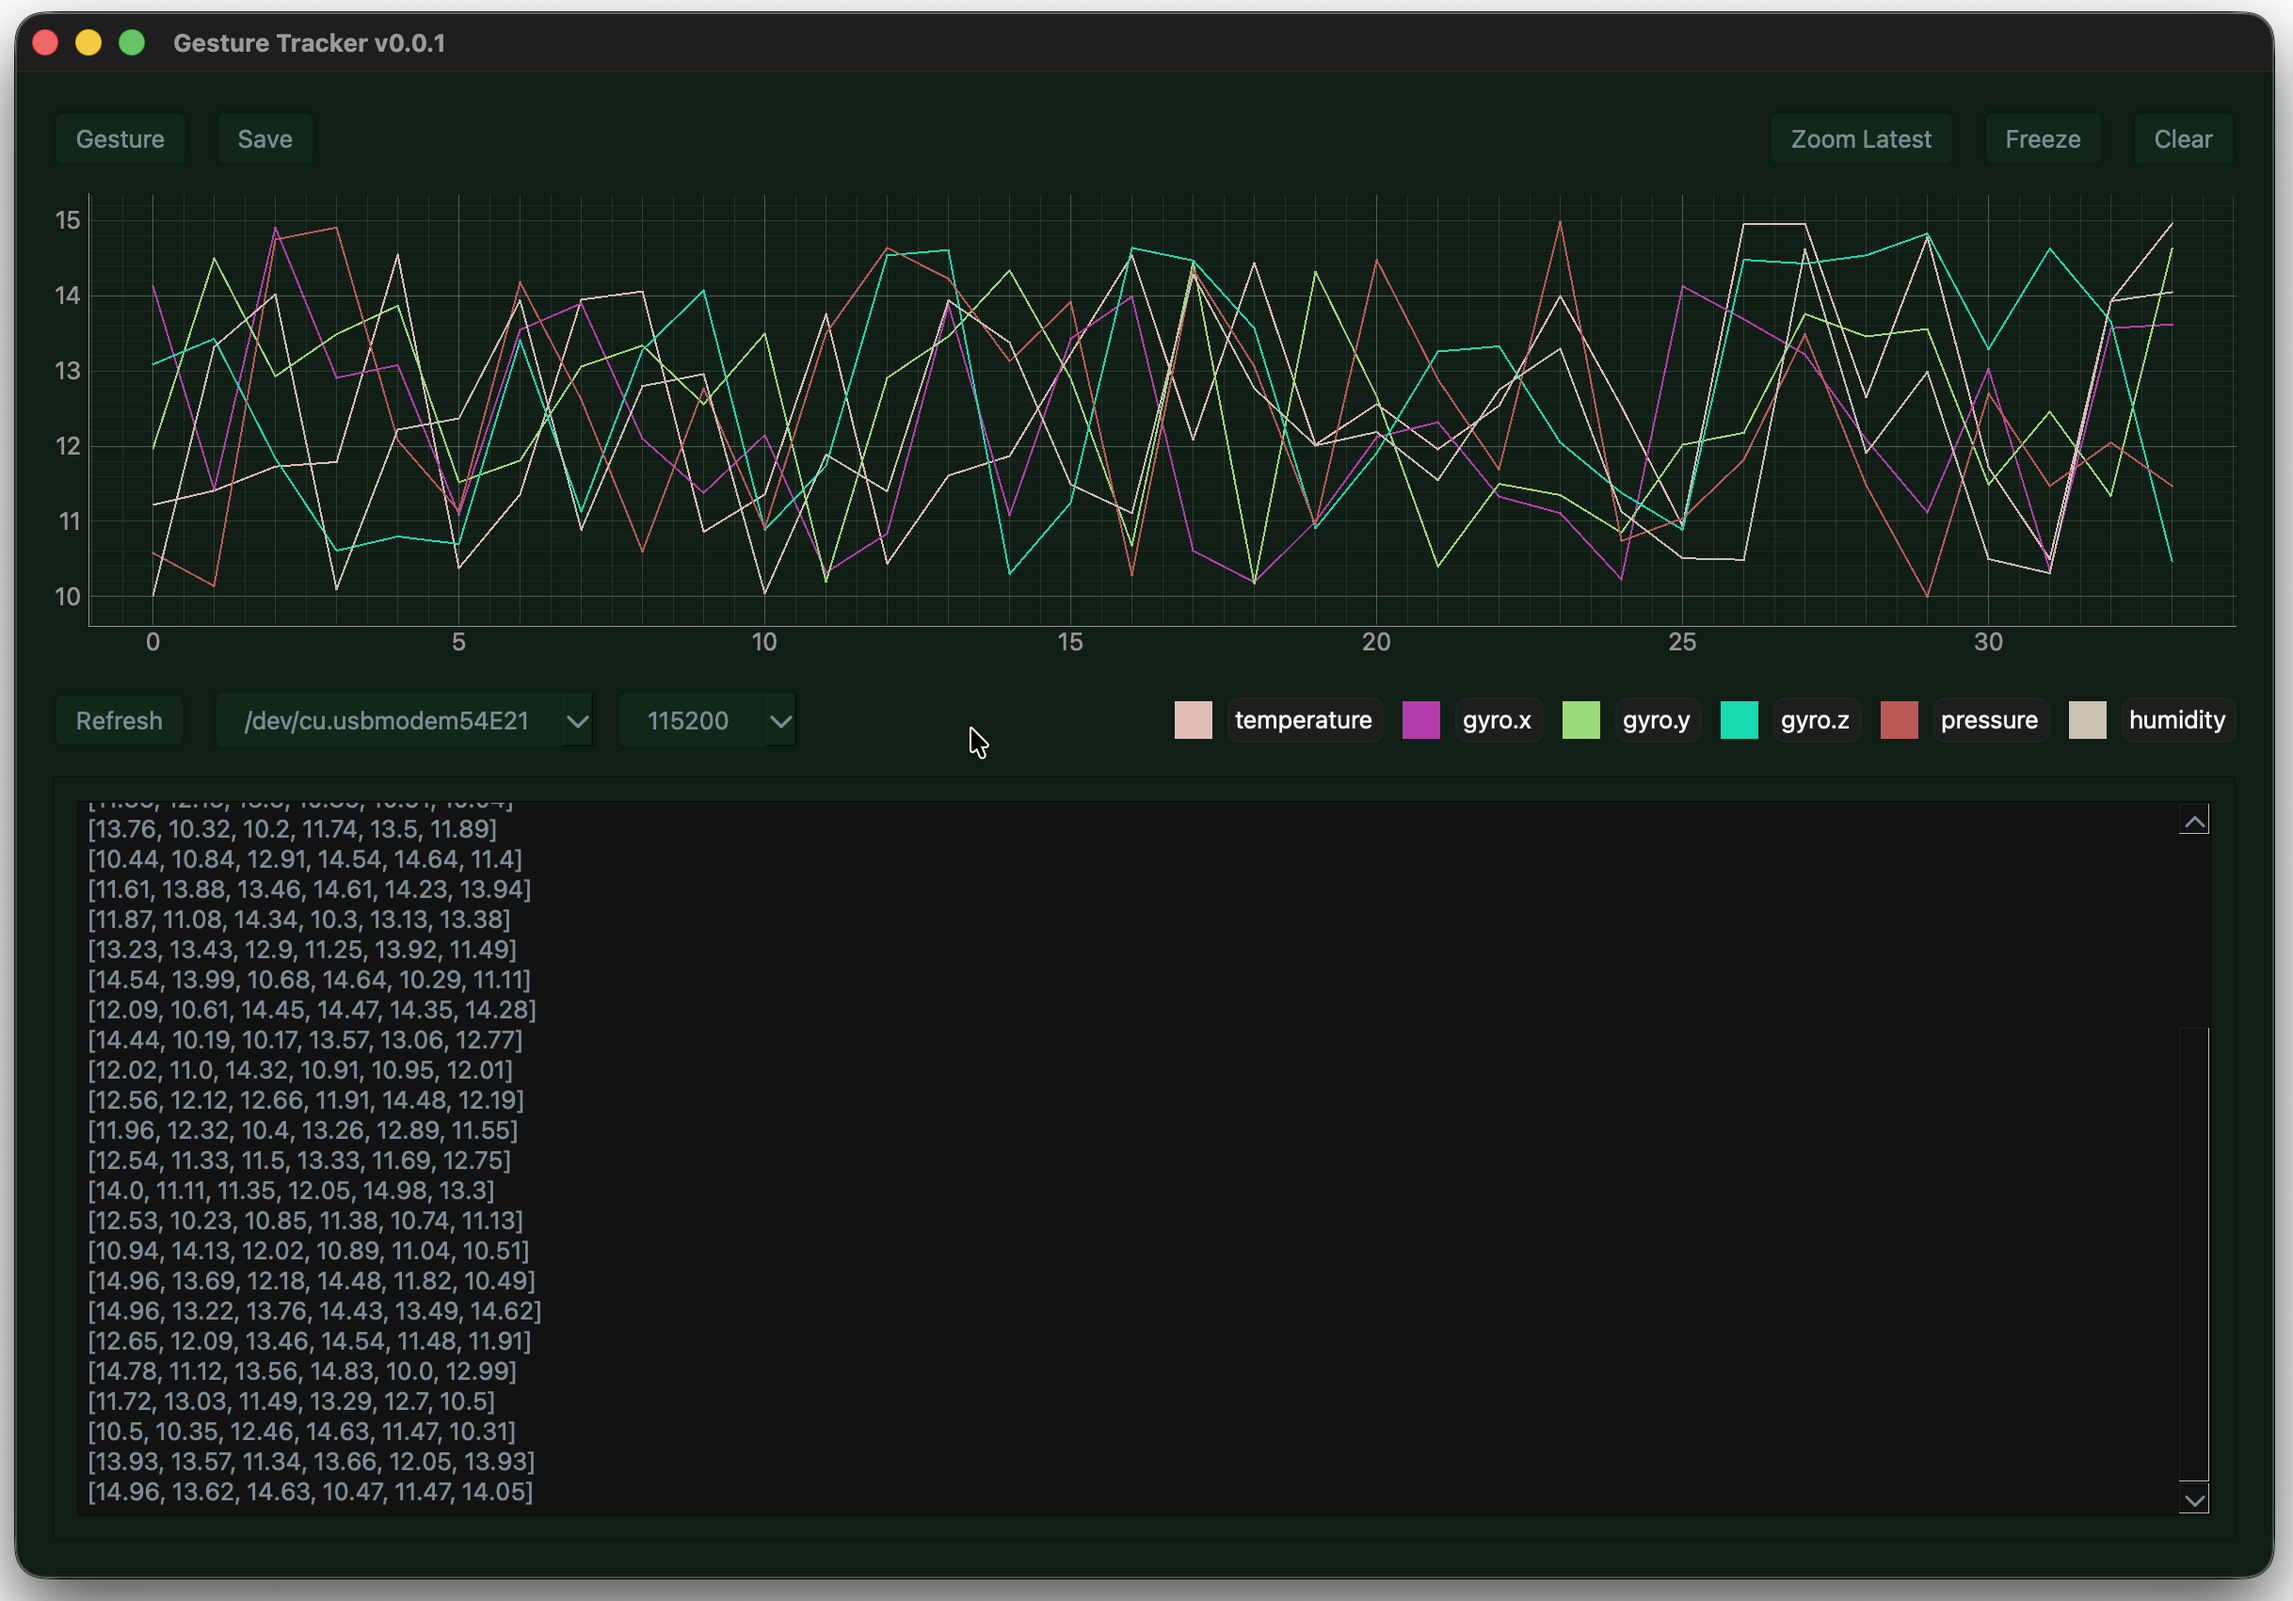
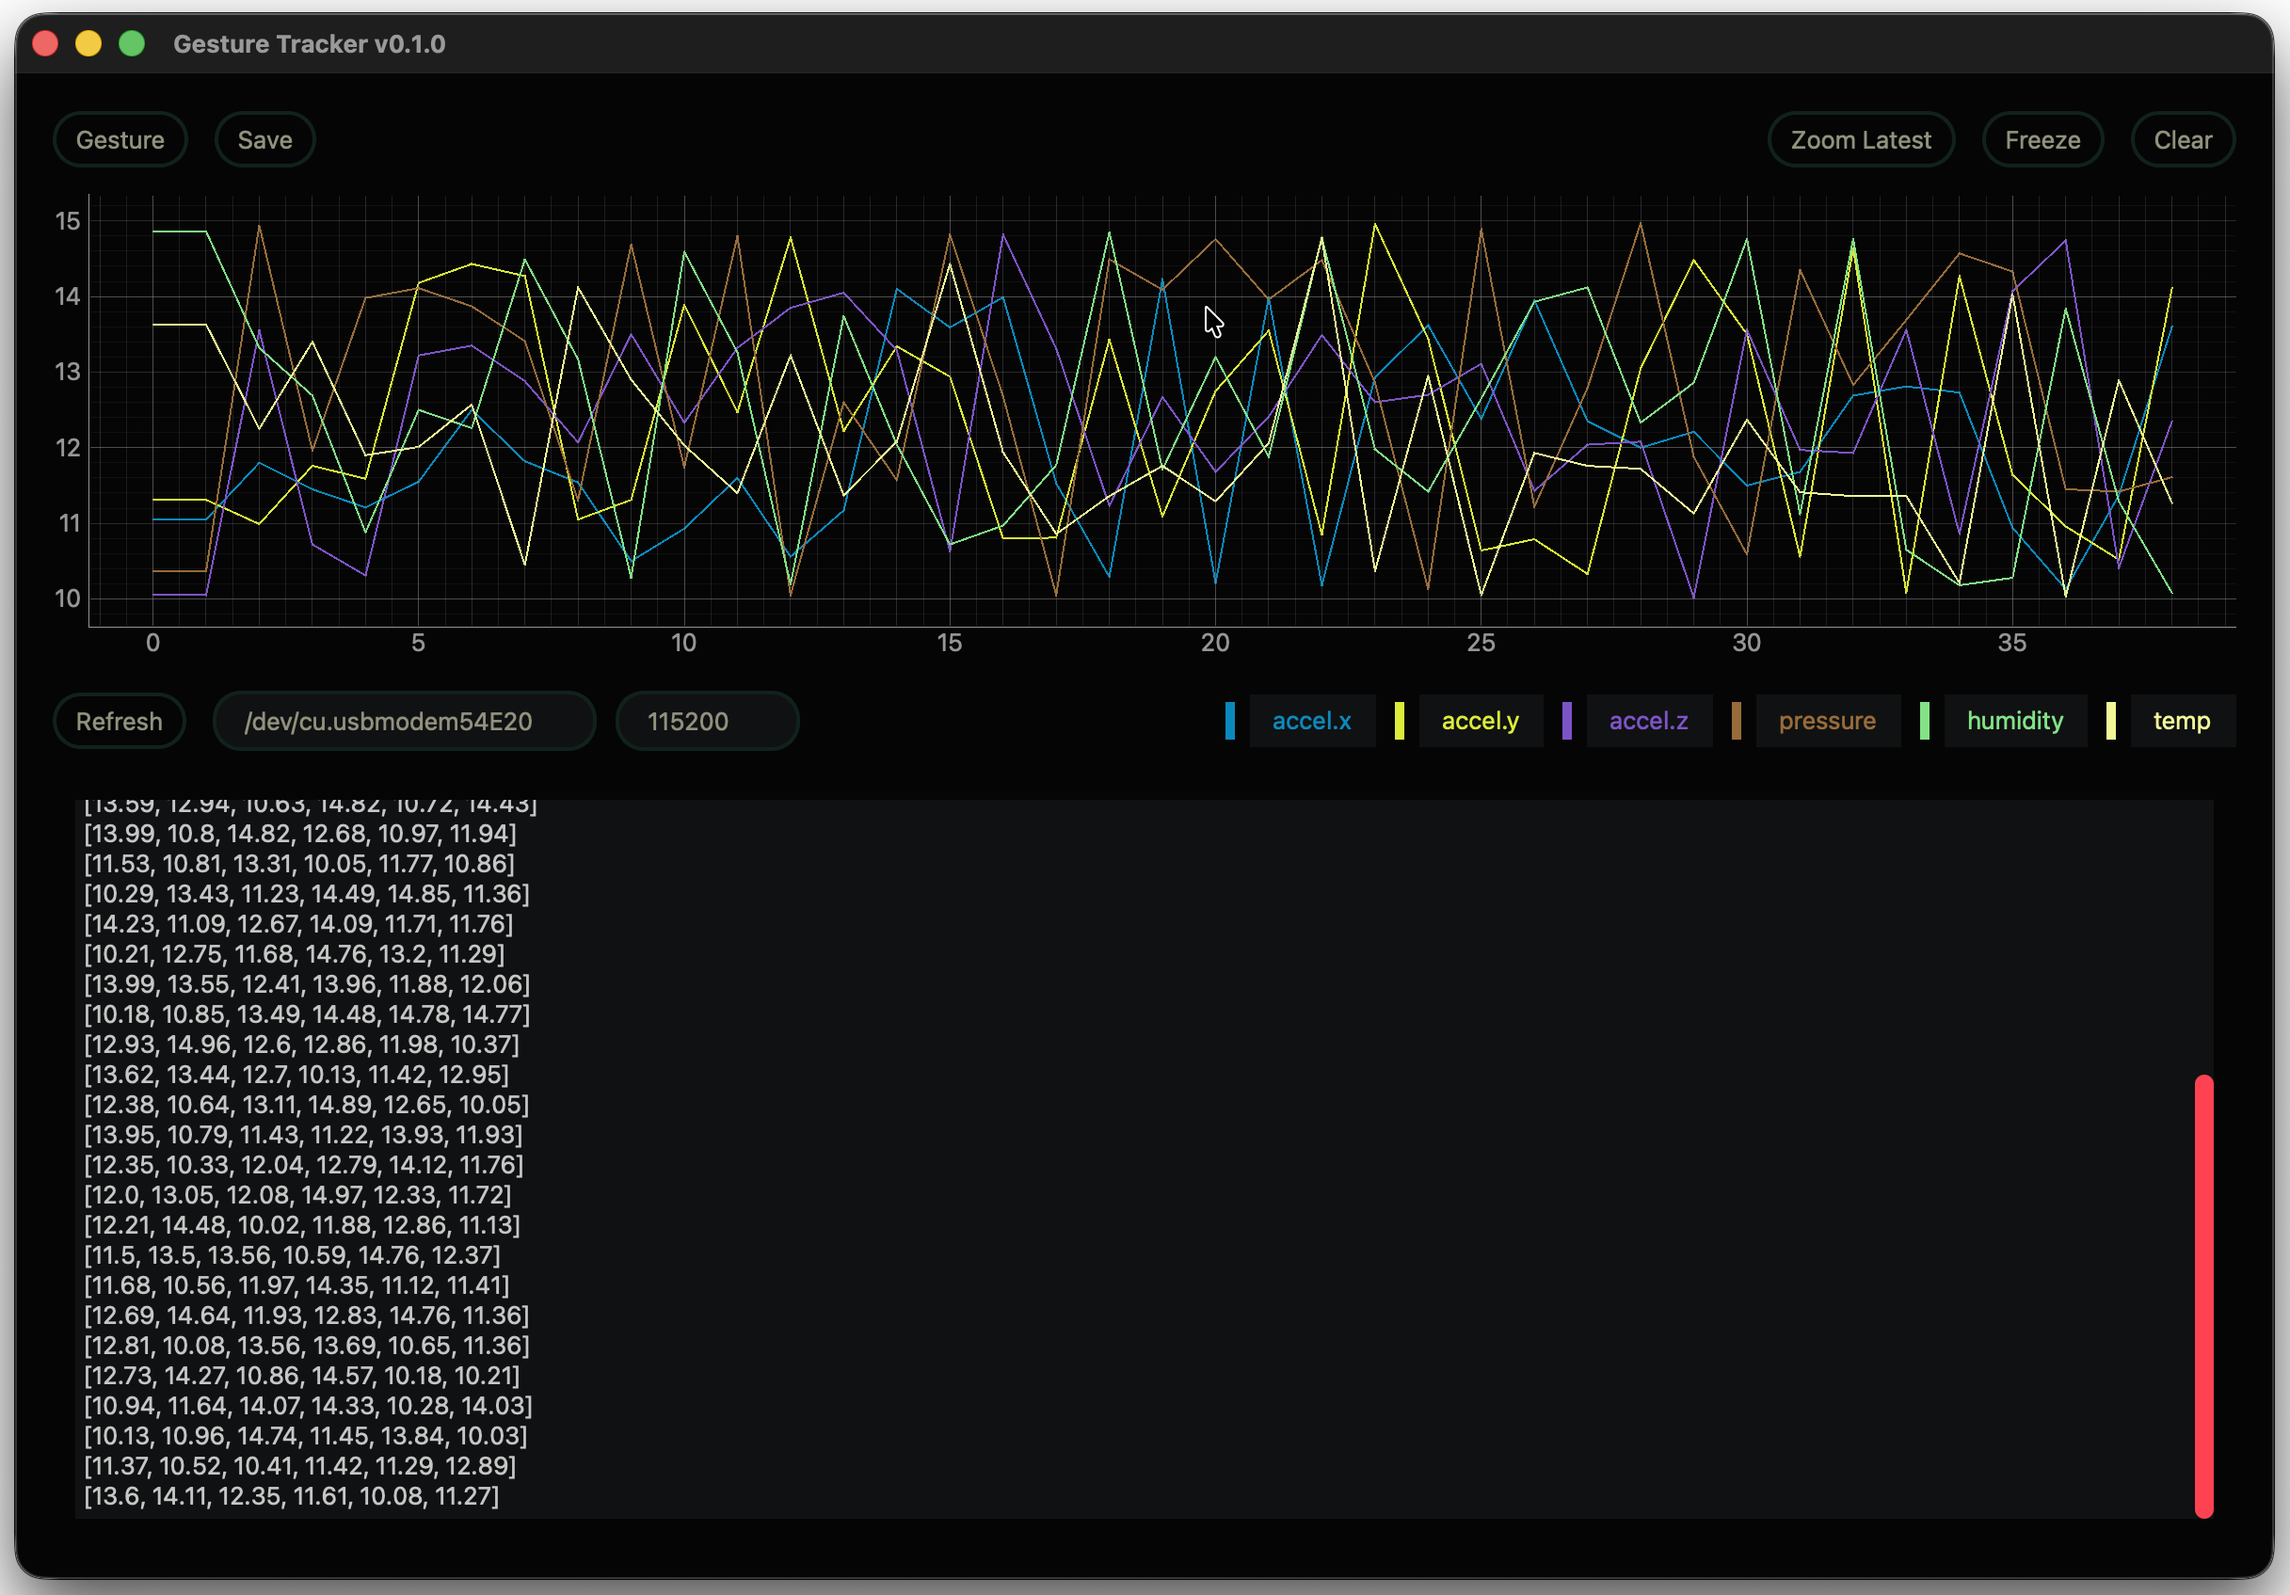
chore: interface
~ changed colourscheme of the program & made it overall more consistent
+ added style for text boxes
~ fixed class methods' naming schemes - made consistent snake_case
~ updated linegraph class to return LineEdit text directly

diff --git a/src/utils/style.py b/src/utils/style.py
@@ -1,10 +1,6 @@
 
 # window/style.py
 
-BACKGROUND_COLOR: str = "#101e15"
-
-FONT_COLOR: str = "#7d8b94"
-
 APPLICATION_NAME: str = "Gesture Tracker v0.1.0"
 
 WINDOW_SIZE: dict[str,int] = {
@@ -14,54 +10,81 @@ WINDOW_SIZE: dict[str,int] = {
 
 GRAPH_HEIGHT: int = 250
 
-RAW_VALUE_BOX_STYLE: str = f"background-color: #121212; color: {FONT_COLOR};"
 
-TEXT_BODY: str = f"color: {FONT_COLOR}"
-TEXT_HEAD: str = f"color: {FONT_COLOR}; font-size: 14px; font-weight: bold;"
+BACKGROUND_COLOR: str = "#050505"
+FONT_COLOR: str = "#c6c6c6"
+ACCENT_COLOR: str = "#ff4252"
+LABEL_COLOR: str = "#91917e"
+BORDER_COLOR: str = "#11211c"
+BACKGROUND_HIGHLIGHT_COLOR: str = "#101112"
 
-BUTTON_STYLE: str = """
-    QPushButton {
-        background-color: #112719;
-        border: 2px solid #0b1e14;
+RAW_VALUE_BOX_STYLE: str = f"""
+    background-color: {BACKGROUND_HIGHLIGHT_COLOR};
+    color: {FONT_COLOR};
+    border: 0;
+"""
+
+TEXT_BOX_STYLE: str = f"""
+    padding: 5% 10%;
+    background-color: {BACKGROUND_HIGHLIGHT_COLOR};
+    border-radius: 15px;
+"""
+
+LABEL_BODY_STYLE: str = f"""
+    color: {FONT_COLOR}
+"""
+
+LABEL_HEAD_STYLE: str = f"""
+    color: {ACCENT_COLOR};
+    font-size: 14px;
+"""
+
+BUTTON_STYLE: str = f"""
+    QPushButton {{
+        background-color: {BACKGROUND_COLOR};
+        border: 2px solid {BORDER_COLOR};
         border-radius: 15px;
         padding: 5% 10%;
-        color: #7d8b94;
-    }
-    QPushButton:pressed {
-        background-color: black;
-    }
+        color: {LABEL_COLOR};
+    }}
+    QPushButton:hover {{
+        background-color: {BORDER_COLOR};
+    }}
+    QPushButton:pressed {{
+        color: white;
+        background-color: {ACCENT_COLOR};
+    }}
 """
 
-COMBOBOX_STYLE: str = """
-    QComboBox {
-        background-color: #112719;
-        border: 2px solid #0b1e14;
+COMBOBOX_STYLE: str = f"""
+    QComboBox {{
+        background-color: {BACKGROUND_HIGHLIGHT_COLOR};
+        border: 2px solid {BORDER_COLOR};
         border-radius: 15px;
         padding: 5% 15%;
-        color: #7d8b94;
-    }
-
-    QComboBox::drop-down {
+        color: {LABEL_COLOR};
+    }}
+    QComboBox::drop-down {{
         border-left-width: 0;
-    }
-    QComboBox::down-arrow:on {
+    }}
+    QComboBox::down-arrow:on {{
         top: 0;
         left: 0;
-    }
+    }}
 """
 
-SCROLL_BAR_STYLE: str = """
-    QScrollBar:vertical {
+SCROLL_BAR_STYLE: str = f"""
+    QScrollBar:vertical {{
         width: 10px;
-    }
-    QScrollBar::handle:vertical {
-        background: #888;
+    }}
+    QScrollBar::handle:vertical {{
+        background: {ACCENT_COLOR};
         border-radius: 5px;
-    }
-    QScrollBar::add-line:vertical, QScrollBar::sub-line:vertical {
+    }}
+    QScrollBar::add-line:vertical, QScrollBar::sub-line:vertical {{
         background: none; /* hide the arrows */
-    }
-    QScrollBar::add-page:vertical, QScrollBar::sub-page:vertical {
+    }}
+    QScrollBar::add-page:vertical, QScrollBar::sub-page:vertical {{
         background: none; /* hide the page scroll areas */
-    }
+    }}
 """

diff --git a/src/window/window.py b/src/window/window.py
@@ -206,8 +206,8 @@ class GestureTracker(QWidget):
         for line in self._graphlines:
             sliced_line = pg.PlotDataItem(
                 x = self._counter[self._toggle_recent:],
-                y = line.Reading(self._toggle_recent),
-                pen = pg.mkPen(color=line.Color(), width=2),
+                y = line.reading(self._toggle_recent),
+                pen = pg.mkPen(color=line.color(), width=2),
             )
 
             self._plot_widget.addItem(sliced_line)
@@ -238,7 +238,7 @@ class GestureTracker(QWidget):
         self._counter = [0]
         self._toggle_recent = 0
 
-        for line in self._graphlines: line.ResetReading()
+        for line in self._graphlines: line.reset_reading()
 
         self._data_display.clear()
         self._update_plot()
@@ -276,7 +276,7 @@ class GestureTracker(QWidget):
         # sensor/source names
         #========================================
         # get all the set names from the graph footer EditLabels
-        source_names: List[str] = [ source.Title().text() for source in self._graphlines ]
+        source_names: List[str] = [ source.text() for source in self._graphlines ]
 
         # ensure all sensors have unique names
         if not check_sources_name(source_names): return
@@ -350,7 +350,7 @@ class GestureTracker(QWidget):
             for start, end in self._records_stamps:
                 source_info.AddValues(
                     self._counter[start:end],
-                    self._graphlines[source].Reading(start, end)
+                    self._graphlines[source].reading(start, end)
                 )
 
             analyse_data.append(source_info)
@@ -415,7 +415,7 @@ class GestureTracker(QWidget):
                 # draw the line
                 #========================================
                 colors: Tuple[int, int, int] = new_color()
-                text_label = EditLabel(f"source{i+1}")
+                text_label = EditLabel(f"source{i+1}", colors)
 
                 new_line: GraphLine = GraphLine(
                     reading=[value] * len(self._counter),
@@ -429,14 +429,14 @@ class GestureTracker(QWidget):
                 # draw legend
                 #========================================
                 square = QLabel()
-                square.setFixedSize(QSize(20, 20))
+                square.setFixedSize(QSize(5, 20))
                 square.setStyleSheet(
                     f"background-color: rgb({colors[0]}, {colors[1]}, {colors[2]});"
                 )
 
                 h_layout = QHBoxLayout()
                 h_layout.addWidget(square)
-                h_layout.addWidget(text_label)
+                h_layout.addWidget(text_label.obj())
 
                 self._legend_layout.addLayout(h_layout)
 
@@ -445,7 +445,7 @@ class GestureTracker(QWidget):
             #========================================
             else:
                 graphline: GraphLine = self._graphlines[i]
-                graphline.AddReading(value)
+                graphline.add_reading(value)
 
         self._update_plot()
 

diff --git a/src/utils/ui.py b/src/utils/ui.py
@@ -3,7 +3,7 @@
 
 #- Imports -----------------------------------------------------------------------------------------
 
-from typing import Any, Callable
+from typing import Any, Callable, Tuple
 
 from redwrenlib.utils.debug import alert
 from PySide6.QtWidgets import (
@@ -13,8 +13,7 @@ from PySide6.QtWidgets import (
 )
 
 from .style import (
-    BUTTON_STYLE,
-    TEXT_BODY,
+    BUTTON_STYLE, TEXT_BOX_STYLE, LABEL_BODY_STYLE,
 )
 
 
@@ -66,21 +65,26 @@ def alert_box(status: str, message: str) -> None:
 #- Custom UI Elements ------------------------------------------------------------------------------
 
 # Simple editable label that auto-resizes to fit its text.
-class EditLabel(QLineEdit):
+class EditLabel():
 
     # Initialise EditLabel with given text and set up auto-resize behaviour.
-    def __init__(self, label: str) -> None:
-        super().__init__()
-        self.setStyleSheet("max-width: 40px; padding: 2px;")
-        self.textChanged.connect(self.adjustWidth)
-        self.setText(label)
+    def __init__(self, label: str, colors: Tuple[int, int, int]) -> None:
+        self._text_input = QLineEdit()
+        self._text_input.setStyleSheet(
+            TEXT_BOX_STYLE + f"color: rgb({colors[0]}, {colors[1]}, {colors[2]});"
+        )
+        self._text_input.textChanged.connect(self.adjust_width)
+        self._text_input.setText(label)
 
 
     # Adjust the widget width to match the current text content (capped).
-    def adjustWidth(self) -> None:
-        metrics = self.fontMetrics()
-        text_width = metrics.horizontalAdvance(self.text())
-        self.setFixedWidth(min(text_width + 10, 100))
+    def adjust_width(self) -> None:
+        metrics = self._text_input.fontMetrics()
+        text_width = metrics.horizontalAdvance(self._text_input.text())
+        self._text_input.setFixedWidth(min(text_width + 25, 100))
+
+    def obj(self) -> QLineEdit:
+        return self._text_input
 
 
 # Textfield with label next to it.
@@ -96,7 +100,7 @@ class LabelledText:
         # label
         self._text_label = QLabel(title)
         self._text_label.setVisible(visible)
-        self._text_label.setStyleSheet(TEXT_BODY)
+        self._text_label.setStyleSheet(LABEL_BODY_STYLE)
         self._text_label.setFixedWidth(100)
         layout.addWidget(self._text_label)
 
@@ -105,7 +109,7 @@ class LabelledText:
         self._text_input.setVisible(visible)
         self._text_input.setPlaceholderText(placeholder)
         self._text_input.setText(value)
-        self._text_input.setStyleSheet(TEXT_BODY)
+        self._text_input.setStyleSheet(TEXT_BOX_STYLE)
         layout.addWidget(self._text_input)
 
         parent_layout.addLayout(layout)

diff --git a/src/window/gesture_dialog_tab1.py b/src/window/gesture_dialog_tab1.py
@@ -17,7 +17,9 @@ from PySide6.QtWidgets import (
 )
 
 from src.utils.extra import file_name_path, datestring
-from src.utils.style import TEXT_HEAD, SCROLL_BAR_STYLE
+from src.utils.style import (
+    LABEL_HEAD_STYLE, SCROLL_BAR_STYLE, TEXT_BOX_STYLE
+)
 from src.utils.typing import (
     TAB1,
     LABEL_RANDOM_STATE, LABEL_N_COMPONENTS, LABEL_THRESHOLD,
@@ -96,6 +98,7 @@ class Tab1:
         self._gesture_file = QLineEdit(self._parent)
         self._gesture_file.setPlaceholderText("Gesture Name")
         self._gesture_file.setToolTip("Path to save gesture file to.")
+        self._gesture_file.setStyleSheet(TEXT_BOX_STYLE)
         self._gesture_file.setSizePolicy(QSizePolicy.Expanding, QSizePolicy.Fixed)
         file_name_layout.addWidget(self._gesture_file, 1)
 
@@ -114,6 +117,7 @@ class Tab1:
         self._repeats_input = QLineEdit(self._parent)
         self._repeats_input.setToolTip("Number of times to repeat the gesture recording.")
         self._repeats_input.setPlaceholderText("Repeats (integer)")
+        self._repeats_input.setStyleSheet(TEXT_BOX_STYLE)
         self._layout.addWidget(self._repeats_input)
 
 
@@ -136,7 +140,7 @@ class Tab1:
         #========================================
         blank_line(self._layout)
         text_label = QLabel("Select Sensors")
-        text_label.setStyleSheet(TEXT_HEAD)
+        text_label.setStyleSheet(LABEL_HEAD_STYLE)
         self._layout.addWidget(text_label)
 
         #========================================

diff --git a/src/window/graphline.py b/src/window/graphline.py
@@ -23,26 +23,26 @@ class GraphLine:
 
 
     # Return a slice of the stored readings between start_idx and end_idx.
-    def Reading(self, start_idx: int = 0, end_idx: Optional[int] = None) -> List[float]:
+    def reading(self, start_idx: int = 0, end_idx: Optional[int] = None) -> List[float]:
         return self.__reading[start_idx:end_idx]
 
 
     # Return the color tuple used to render this graph line.
-    def Color(self) -> Tuple[int, int, int]:
+    def color(self) -> Tuple[int, int, int]:
         return self.__color
 
 
     # Return the editable title widget for this line.
-    def Title(self) -> EditLabel:
-        return self.__title
+    def text(self) -> str:
+        return self.__title.obj().text()
 
 
     # Append a new numeric reading to this graph line.
-    def AddReading(self, value: float) -> None:
+    def add_reading(self, value: float) -> None:
         self.__reading.append(value)
 
 
     # Reset readings to keep only the most recent value (used when clearing older data).
-    def ResetReading(self) -> None:
+    def reset_reading(self) -> None:
         self.__reading = [self.__reading[-1]]
 
